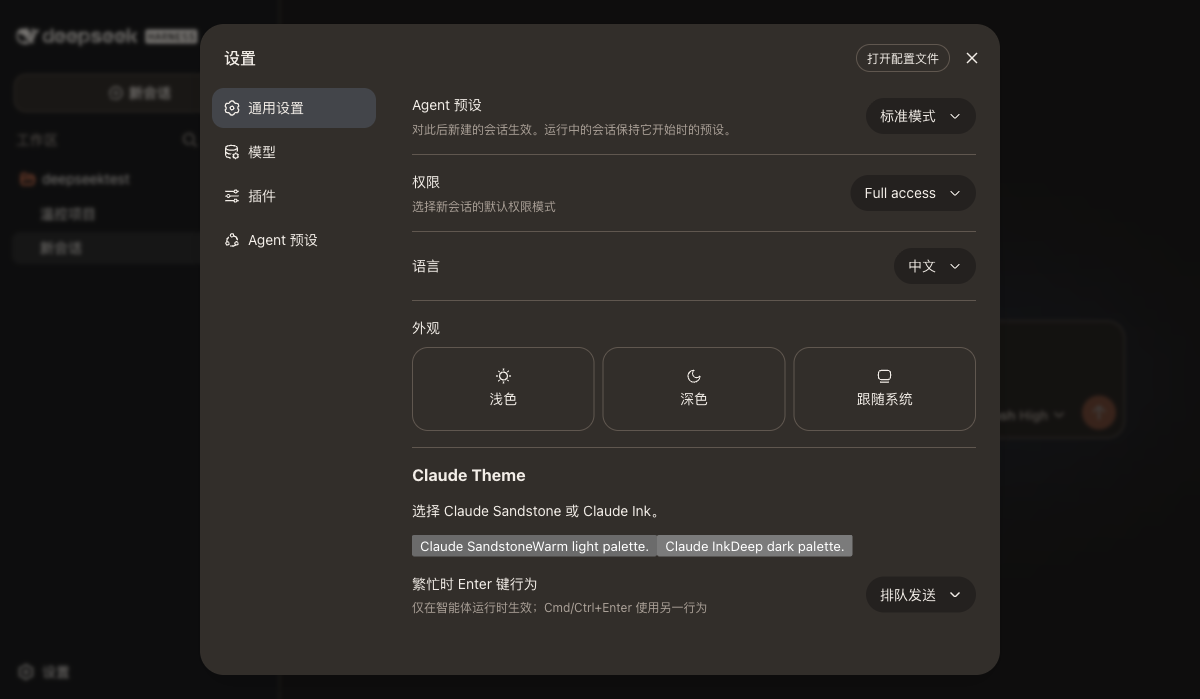
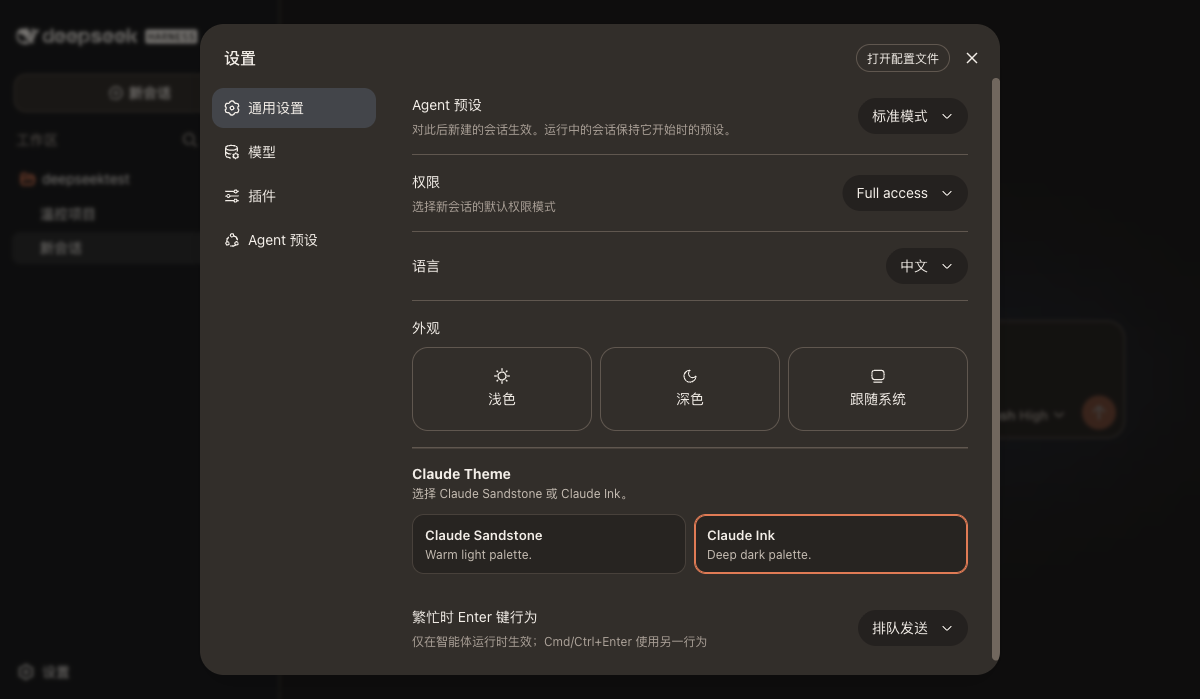
fix: export CSS module class names

diff --git a/tests/client.spec.ts b/tests/client.spec.ts
@@ -1,4 +1,5 @@
 import { describe, expect, it } from 'vitest'
+import { readFile } from 'node:fs/promises'
 import manifest from '../package.json' with { type: 'json' }
 import { apply, inject, THEME_STYLESHEET } from '../src/client/index.js'
 import { ThemeSelectorRow } from '../src/client/ThemeSelectorRow.js'
@@ -7,6 +8,13 @@ type ThemeButton = { props: { children: string; 'aria-pressed': boolean; onClick
 type ThemeSelectorTree = { props: { children: [unknown, { props: { children: ThemeButton[] } }] } }
 
 describe('Claude Web client plugin', () => {
+  it('exports CSS module class names in the bundled client', async () => {
+    const bundle = await readFile(new URL('../lib/client.js', import.meta.url), 'utf8')
+
+    expect(bundle).toMatch(/["']?themeSelector["']?\s*:\s*['"][^'"]+_themeSelector/)
+    expect(bundle).toMatch(/["']?themeSelectorOption["']?\s*:\s*['"][^'"]+_themeSelectorOption/)
+  })
+
   it('uses the host React 18 runtime as a peer dependency', () => {
     expect(manifest.peerDependencies.react).toBe('^18.2.0')
     expect(manifest.devDependencies.react).toBe('^18.2.0')

diff --git a/tsdown.config.ts b/tsdown.config.ts
@@ -32,7 +32,10 @@ export default defineConfig([
         if (!id.startsWith(CSS_PREFIX)) return null
         const filename = id.slice(CSS_PREFIX.length, -CSS_SUFFIX.length)
         this.addWatchFile(filename)
-        const { code } = transform({ filename, code: await readFile(filename), cssModules: true, minify: true })
+        const { code, exports } = transform({ filename, code: await readFile(filename), cssModules: true, minify: true })
+        const classes = Object.fromEntries(
+          Object.entries(exports ?? {}).map(([name, value]) => [name, value.name]),
+        )
         const tagId = `deepseek-claude-web-theme/${basename(filename)}`
         return [
           `const css = ${JSON.stringify(code.toString())};`,
@@ -44,7 +47,7 @@ export default defineConfig([
           '  tag.textContent = css;',
           '  document.head.appendChild(tag);',
           '}',
-          'export default {};',
+          `export default ${JSON.stringify(classes)};`,
         ].join('\n')
       },
     }],
